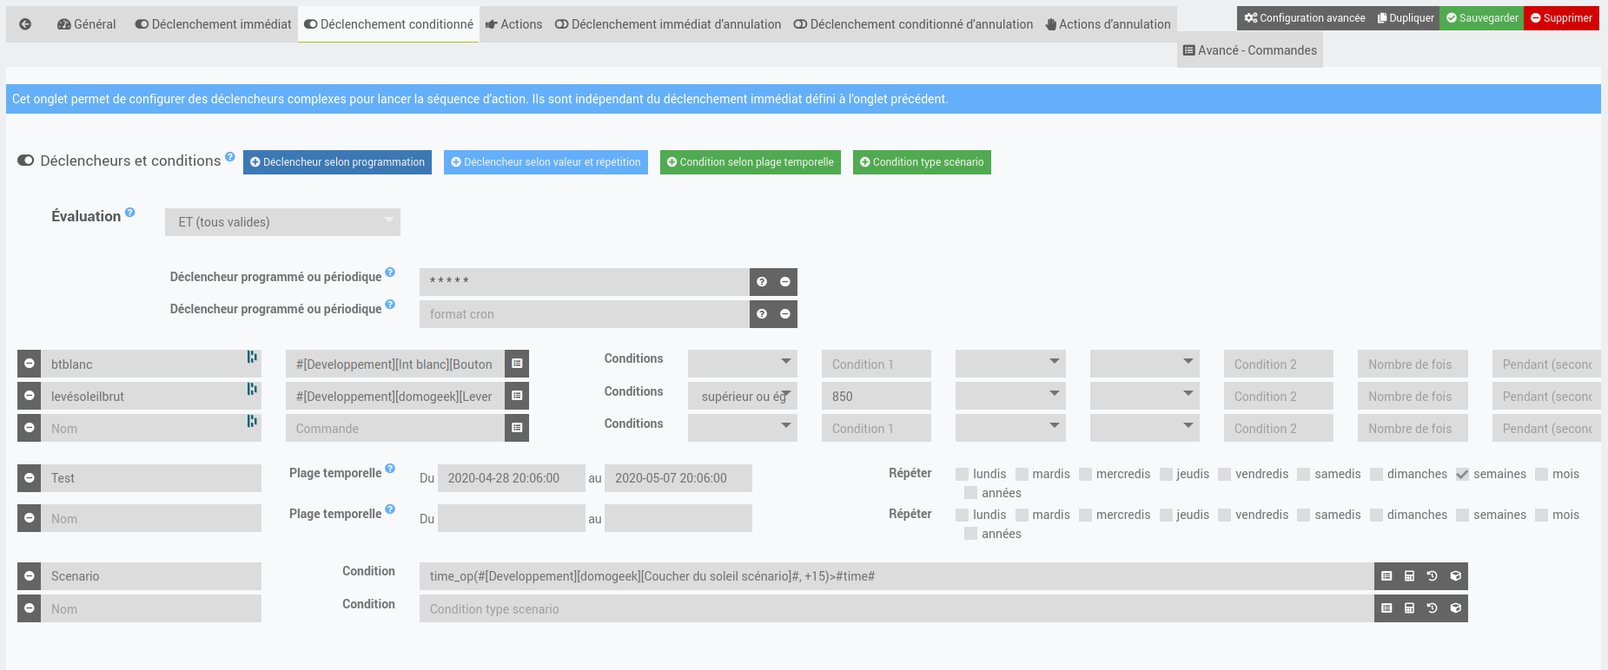
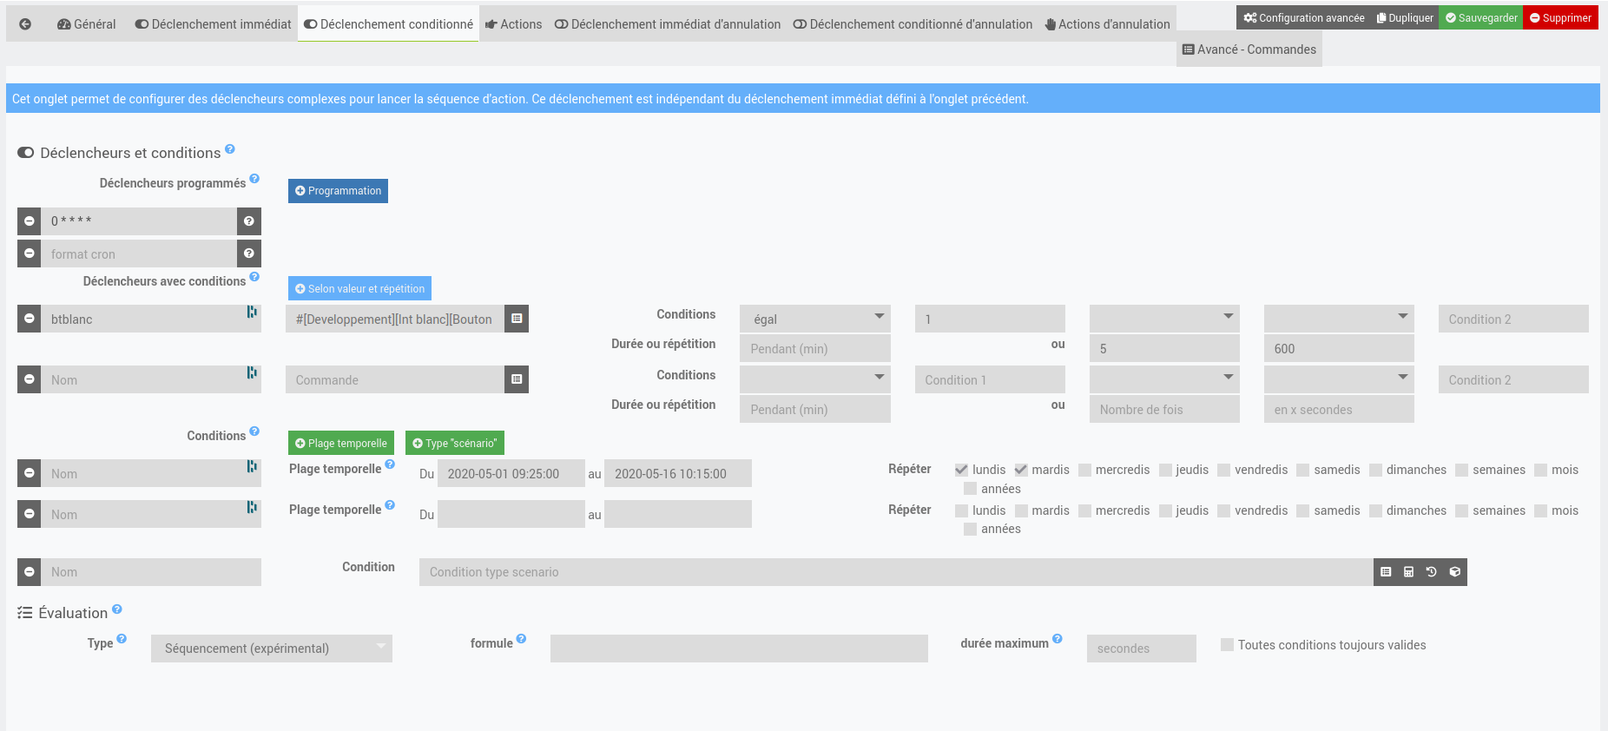
doc

diff --git a/desktop/js/sequencing.js b/desktop/js/sequencing.js
@@ -140,16 +140,6 @@ $('body').off('click','.bt_selectScenarioExpression').on('click','.bt_selectScen
     //  el.value(result.human); // remplace tout
     el.atCaret('insert', result.human); // ajoute
   });
-
-/*  var expression = $(this).closest('.expression');
-  jeedom.scenario.getSelectModal({}, function (result) {
-    if (expression.find('.expressionAttr[data-l1key=type]').value() == 'action') {
-      expression.find('.expressionAttr[data-l1key=expression]').value(result.human);
-    }
-    if (expression.find('.expressionAttr[data-l1key=type]').value() == 'condition') {
-      expression.find('.expressionAttr[data-l1key=expression]').atCaret('insert', result.human);
-    }
-  });*/
 });
 
 // pour selectionner un equipement
@@ -159,16 +149,6 @@ $('body').off('click','.bt_selectEqLogicExpression').on('click','.bt_selectEqLog
   //  el.value(result.human); // remplace tout
     el.atCaret('insert', result.human); // ajoute
   });
-
-/*  var expression = $(this).closest('.expression');
-  jeedom.eqLogic.getSelectModal({}, function (result) {
-    if (expression.find('.expressionAttr[data-l1key=type]').value() == 'action') {
-      expression.find('.expressionAttr[data-l1key=expression]').value(result.human);
-    }
-    if (expression.find('.expressionAttr[data-l1key=type]').value() == 'condition') {
-      expression.find('.expressionAttr[data-l1key=expression]').atCaret('insert', result.human);
-    }
-  });*/
 });
 
 // affiche les cmd jeedom de type action
@@ -180,7 +160,6 @@ $("body").off('click','.listCmdAction').on('click','.listCmdAction', function ()
     jeedom.cmd.displayActionOption(el.value(), '', function (html) {
       el.closest('.' + type).find('.actionOptions').html(html);
     });
-
   });
 });
 
@@ -192,7 +171,6 @@ $('body').off('focusout','.cmdAction.expressionAttr[data-l1key=cmd]').on('focuso
   jeedom.cmd.displayActionOption($(this).value(), init(expression[0].options), function (html) {
     el.closest('.' + type).find('.actionOptions').html(html);
   });
-
 });
 
 // copier/coller du core (cmd.configure.php), permet de choisir la liste des actions (scenario, attendre, ...)

diff --git a/desktop/php/sequencing.php b/desktop/php/sequencing.php
@@ -263,7 +263,7 @@ $eqLogics = eqLogic::byType($plugin->getId());
 
           <div class="sequencement">
             <div class="form-group">
-              <label class="col-sm-1 control-label">{{formule}} <sup><i class="fas fa-question-circle tooltips" title="{{Définir l'ordre des conditions (uniquement pour des conditions sur valeurs). Pour Cond1 puis Cond2 puis Cond3, saisir '§Cond1§<§Cond2§&&§Cond2§<§Cond3§'}}"></i></sup></label>
+              <label class="col-sm-1 control-label">{{formule}} <sup><i class="fas fa-question-circle tooltips" title="{{Définir l'ordre des conditions (uniquement pour des conditions sur valeurs). Pour Cond1 puis Cond2 puis Cond3, saisir '@Cond1@<@Cond2@&&@Cond2@<@Cond3@'}}"></i></sup></label>
               <div class="col-sm-5 col-md-3">
                 <input class="eqLogicAttr form-control" data-l1key="configuration"  data-l2key="condition_sequence"/>
               </div>
@@ -279,7 +279,7 @@ $eqLogics = eqLogic::byType($plugin->getId());
 
           <div class="condition_perso">
             <div class="form-group">
-              <label class="col-sm-1 control-label">{{formule}} <sup><i class="fas fa-question-circle tooltips" title="{{Utilisez des % (resultat) ou % (timestamp) autour de vos noms de conditions et définissez la logique voulue. Voir la documentation}}"></i></sup></label>
+              <label class="col-sm-1 control-label">{{formule}} <sup><i class="fas fa-question-circle tooltips" title="{{Utilisez des % (resultat) ou @ (timestamp) autour de vos noms de conditions et définissez la logique voulue. Voir la documentation}}"></i></sup></label>
               <div class="col-sm-7">
                 <input class="eqLogicAttr form-control" data-l1key="configuration"  data-l2key="condition_perso"/>
               </div>
@@ -445,7 +445,7 @@ $eqLogics = eqLogic::byType($plugin->getId());
 
           <div class="condition_perso_cancel">
             <div class="form-group">
-              <label class="col-sm-1 control-label">{{formule}} <sup><i class="fas fa-question-circle tooltips" title="{{Utilisez des % (resultat) ou % (timestamp) autour de vos noms de conditions et définissez la logique voulue. Voir la documentation}}"></i></sup></label>
+              <label class="col-sm-1 control-label">{{formule}} <sup><i class="fas fa-question-circle tooltips" title="{{Utilisez des % (resultat) ou @ (timestamp) autour de vos noms de conditions et définissez la logique voulue. Voir la documentation}}"></i></sup></label>
               <div class="col-sm-7">
                 <input class="eqLogicAttr form-control" data-l1key="configuration"  data-l2key="condition_perso_cancel"/>
               </div>

diff --git a/core/class/sequencing.class.php b/core/class/sequencing.class.php
@@ -372,7 +372,7 @@ class sequencing extends eqLogic {
 
       log::add('sequencing', 'debug', $this->getHumanName() . ' - Evaluation "perso", condition initiale : ' . $condition);
 
-      preg_match_all('/%([\p{L}\p{M}-_\s]*)%/', $condition, $matches, PREG_SET_ORDER); // on veut matcher a-Z, 0-9, les espaces et les - qui sont inclus entre 2#. Ici on choppe pas les accents...
+      preg_match_all('/%([\p{L}\p{M}-_\s]*)%/', $condition, $matches, PREG_SET_ORDER); // on veut matcher a-Z, 0-9, les espaces et les - qui sont inclus entre 2%. Ici on choppe pas les accents...
       foreach ($matches as $key => $matche) {
     //    log::add('sequencing', 'debug', $this->getHumanName() . ' - matche : ' . $matche[1]); //$matche[1] c'est le nom de notre condition, sans les #. C'est donc aussi le $key de notre tableau ou de notre variable de cache
         $condition = str_replace('%'.$matche[1].'%', $results[$matche[1]], $condition);
@@ -425,7 +425,7 @@ class sequencing extends eqLogic {
       $timestamp_valid = array(); // contiendra en $key le nom sans les # des conditions saisies et en $values 0 ou 1 selon si timestamp <= timeout
       preg_match_all('/@([\p{L}\p{M}-_\s]*)@/', $condition, $matches, PREG_SET_ORDER);
       foreach ($matches as $matche) {
-      //    log::add('sequencing', 'debug', $this->getHumanName() . ' - matche : ' . $matche[1]); //$matche[1] c'est le nom de notre condition, sans les #. C'est donc aussi le $key de notre tableau ou de notre variable de cache
+      //    log::add('sequencing', 'debug', $this->getHumanName() . ' - matche : ' . $matche[1]); //$matche[1] c'est le nom de notre condition, sans les @. C'est donc aussi le $key de notre tableau ou de notre variable de cache
 
         $timestamp_cache = $this->getCache('condValide_'.$matche[1].'_timestamp');
 

diff --git a/docs/fr_FR/index.md b/docs/fr_FR/index.md
@@ -1,15 +1,9 @@
 Présentation
 ============
 
-Ce plugin permet de déclencher des actions séquencées (actions immédiates ou actions retardées) suite à l'activation d'un ou plusieurs déclencheurs, par programmation, ou via appel externe (par un autre plugin, un scénario, un appel API, ...).
+Ce plugin permet de déclencher des actions séquencées (actions immédiates ou actions retardées) suite à l'activation d'un ou plusieurs déclencheurs : par programmation, via appel externe (par un autre plugin, un scénario, un appel API, ...) ou via des conditions élaborées (conditions sur valeur d'un déclencheur, répétition de valeur dans un délai donné, condition valable plus de x min, plage temporelle, logique floue, activations de capteurs dans un ordre donné, etc.)
 
 Un mécanisme d'annulation permet de stopper la séquence et d'exécuter des actions d'annulation spécifiques selon les actions déjà réalisées ou non.
-
-Il est possible d'utiliser des conditions complexes pour déclencher/annuler la séquence :
-* Conditions sur valeur (binaires, numériques ou chaîne de caractères) et/ou selon répétition dans une durée donnée
-* Conditions selon plage temporelle (avec répétition possible chaque jour de la semaine, chaque semaine, mois, année)
-* Conditions du type "scénario" permettant d'utiliser toutes les fonctions de calculs des champs **Si** des scénarios Jeedom (conditions sur les variables, calculs de dates sur des commandes, etc.)
-* Ces différentes conditions peuvent être évaluées en OU, en ET, en logique floue (x conditions sur N), selon l'ordre d’occurrence ou selon une condition personnalisée mixant ces différentes conditions.
 
 Les principales fonctionnalités sont les suivantes :
 * Gestion illimitée d'actions séquentielles (immédiates ou retardées)
@@ -17,10 +11,12 @@ Les principales fonctionnalités sont les suivantes :
    * Programmation du déclenchement (cron) à une date/horaire ou périodiquement
    * Gestion d'appel externe pour déclencher la séquence d'actions (via un autre plugin, scénario, appel API, le Dashboard Jeedom, ...)
 * Déclenchement conditionné :
-   * Ajout d'une quantité illimité de déclencheurs selon programmation (date-heure précise ou périodique) et/ou selon la valeur et répétition d'une commande Jeedom
-   * Ajout d'une quantité illimité de conditions selon plage temporelle et/ou selon la valeur et répétition d'une commande Jeedom et/ou selon des conditions de type "scenario"
-   * Déclencheurs selon la valeur et répétition d'une commande Jeedom (capteur, bouton, info virtuelle, ...) : chacun jusqu'à 2 conditions selon leur valeur (binaire, numérique ou chaîne de caractères) et la possibilité de ne déclencher qu'après plusieurs occurrences successives valides
+   * Quantité illimité de déclencheurs selon programmation (date-heure précise ou périodique)
+   * Quantité illimité de déclencheurs selon commande Jeedom avec conditions sur valeur (binaires, numériques ou chaîne de caractères) et/ou selon répétition dans une durée donnée et/ou selon une durée minimum de validité
+   * Quantité illimité de conditions selon plage temporelle (avec répétition possible chaque jour de la semaine, chaque semaine, mois, année)
+   * Quantité illimité de conditions type "scénario" permettant d'utiliser toutes les fonctions de calculs des champs **Si** des scénarios Jeedom (conditions sur les variables, calculs de dates sur des commandes, etc.)
    * Historisation des déclencheurs (ceux liés à une commande Jeedom uniquement)
+   * Toutes ces différentes conditions peuvent être évaluées en OU, en ET, en logique floue (x conditions sur N), selon l'ordre d’occurrence ou selon une condition totalement personnalisée mixant ces différentes conditions.
 * En cas de multi-déclenchement de la séquence d'action, choix de garder la programmation initiale de chaque action ou de les reporter
 * Gestion d'annulation de la séquence (immédiat ou conditionné, identique gestion du déclenchement) et liste d'actions associées
 * Les actions d'annulation peuvent être conditionnées par l'exécution ou non d'une action de la séquence initiale
@@ -39,6 +35,13 @@ Voir le [Changelog](https://agp42.github.io/sequencing/fr_FR/changelog)
 
 Seules les modifications ayant un impact fonctionnel sur le plugin sont listées dans le changelog.
 
+Exemples détaillés
+==========
+
+Voir la page [Exemples Séquencement](https://agp42.github.io/sequencing/fr_FR/exemples)
+
+(N'hésitez pas à me proposer des exemples de vos utilisations !)
+
 Configuration du plugin
 ========================
 
@@ -54,7 +57,7 @@ Onglet **Général**
    * Objet parent : il s'agit de l'objet Jeedom auquel rattacher l'équipement
    * Catégorie : catégorie Jeedom à laquelle rattacher l'équipement
    * Activer le plugin
-   * Visible sert à visualiser les informations sur le Dashboard, par défaut vous aurez uniquement les commandes pour déclencher et arrêter la séquence. Vous pouvez choisir (onglet **Avancé - Commandes**) de visualiser les capteurs de déclenchement et d'annulation. Le plugin n'a pas besoin d'être visible sur le Dashboard pour fonctionner.
+   * Visible sert à visualiser les informations sur le Dashboard, par défaut vous aurez uniquement les commandes pour déclencher et arrêter la séquence. Vous pouvez renommer ces boutons via l'onglet **Avancé - Commandes**. Vous pouvez choisir (onglet **Avancé - Commandes**) de visualiser les capteurs de déclenchement et d'annulation sur le dashboard. Le plugin n'a pas besoin d'être visible sur le Dashboard pour fonctionner.
 
 ### **Tags messages**
 
@@ -85,20 +88,18 @@ Vous pouvez notamment utiliser des tags dans ces tags, par exemple vous pouvez d
    * #trigger_name# : plusieurs possibilités :
       * le **Nom** du déclencheur (celui que vous avez saisi dans l'onglet Déclencheur ou Déclencheur d'annulation) s'il s'agit d'un déclencheur interne du plugin.
       * "user/api" si déclenché par l'API ou par la commande du Dashboard ou via un autre plugin.
-      * "lancement programmé" ou "annulation programmée" si déclenché par la programmation générale du plugin (celle qui ne vérifie pas les autres conditions).
-      * "programmé" si déclenché par la programmation du plugin (celle qui vérifie les autres conditions).
+      * "programmé" si déclenché par la programmation du plugin (celle qui ne vérifie pas les autres conditions ou celle permettant de déclencher l'évaluation des conditions).
    * #trigger_full_name# : plusieurs possibilités :
       * le **HumanName** Jeedom du déclencheur s'il s'agit d'une commande de déclencheur interne du plugin ([Objet][Equipement][cmd])
       * "user/api" si déclenché par l'API ou par la commande du Dashboard ou via un autre plugin.
-      * "lancement programmé" ou "annulation programmée" si déclenché par la programmation générale du plugin (celle qui ne vérifie pas les autres conditions).
-      * "programmé" si déclenché par la programmation du plugin. Uniquement pour les **Actions**.
+      * "programmé" si déclenché par la programmation du plugin (celle qui ne vérifie pas les autres conditions ou celle permettant de déclencher l'évaluation des conditions).
    * #trigger_value# : la valeur du déclencheur, uniquement pour les déclenchements par un déclencheur interne du plugin. Sera vide dans les autres cas.
    * #trigger_datetime# : La date et l'heure du déclenchement au format "2020-04-16 18:50:18". Il ne s'agit pas de la date et heure de l'action s'il s'agit d'une action retardée.
    * #trigger_time# : idem uniquement l'heure "18:50:18"
 
 ##### Tags généraux (idem scénarios)
 * les informations de date et heure correspondent à l'instant de l'exécution effective de l'action :
-* Rappel des tags scenarios utilisables
+* Rappel des tags scenarios utilisables (tous les tags scenarios qui seront ajoutés dans le core jeedom par la suite seront aussi fonctionnels)
   * #seconde# : Seconde courante (sans les zéros initiaux, ex : 6 pour 08:07:06),
   * #minute# : Minute courante (sans les zéros initiaux, ex : 7 pour 08:07:06),
   * #heure# : Heure courante au format 24h (sans les zéros initiaux, ex : 8 pour 8:07:06 ou 17 pour 17:15),
@@ -144,31 +145,37 @@ Vous pouvez programmer un cron directement via le plugin pour une exécution sim
 Onglet **Déclenchement conditionné**
 ---
 
-Cet onglet permet de configurer des déclencheurs complexes pour lancer la séquence d'action. Ils sont indépendant du déclenchement immédiat défini à l'onglet précédent, ils peuvent donc être utilisés en complément ou à la place du déclenchement immédiat.
+Cet onglet permet de configurer des déclencheurs complexes pour lancer la séquence d'action. Ils sont indépendant du déclenchement immédiat défini à l'onglet précédent.
 
-![](https://raw.githubusercontent.com/AgP42/sequencing/dev/docs/assets/images/OngletDeclencheursConditionnes.png)
+![](https://raw.githubusercontent.com/AgP42/sequencing/dev/docs/assets/images/OngletDeclencheursConditionnesVide.png)
 
 ### Principe de fonctionnement
-Cette partie contient 4 catégories d'éléments :
-* **Déclencheurs selon programmation** : il s'agit d'un ou plusieurs cron(s) (programmation) que vous pouvez choisir d'exécuter à une heure donnée ou périodiquement. Ici cette programmation permettra de déclencher l'évaluation des conditions suivante uniquement. S'il n'y a aucune autre condition, il ne se passera rien (utilisez pour cela la programmation en déclenchement immédiat).
-* **Déclencheurs selon valeur et répétition** : il s'agit ici de déclencheurs **et** de conditions. Chaque changement de valeur ou d'état d'une de ces commandes déclenchera l'évaluation des conditions liées à cette commande. Si ce déclencheur est valide, les autres conditions seront alors évaluées.
-* **Conditions selon plage temporelle** : il s'agit d'une ou plusieurs plage(s) de date-heure, éventuellement répétées, pendant lesquels la séquence d'action peut-être activée. Il s'agit uniquement de **conditions** et non de **déclencheurs** (la séquence ne se déclenchera pas spontanément en début de plage)
-* **Conditions type scénario** : il s'agit d'un champ de condition quasi identique aux conditions (Si/Alors/Sinon) des scénarios du core de Jeedom. Il permet d'écrire des conditions complexes et d'utiliser les différentes fonctions des scénarios Jeedom [Doc scenario v4.0](https://doc.jeedom.com/fr_FR/core/4.0/scenario). Il s'agit uniquement de **conditions** et non de **déclencheurs** (la séquence ne se déclenchera pas spontanément lorsque la condition devient valide)
+Cet onglet contient 2 parties : **Déclencheurs et conditions** et **Évaluation**.
 
-Ainsi que la possibilité de choisir les conditions que vous voulez appliquer entre ces différents éléments :
+**Déclencheurs et conditions** permet de définir une multitude de déclencheurs et de conditions, puis **Évaluation** permettra de déterminer les relations entre ces déclencheurs et conditions.
+
+**Déclencheurs et conditions** contient 4 catégories d'éléments :
+* **Déclencheurs programmés** : il s'agit d'un ou plusieurs cron(s) (programmation) que vous pouvez choisir d'exécuter à une heure donnée ou périodiquement. Ici cette programmation permettra de déclencher l'évaluation des conditions suivante uniquement. S'il n'y a aucune autre condition, il ne se passera rien (utilisez pour cela la programmation en déclenchement immédiat).
+* **Déclencheurs avec conditions** : il s'agit ici de déclencheurs **et** de conditions. Chaque changement de valeur ou d'état d'une de ces commandes déclenchera l'évaluation des conditions liées à cette commande. Si ce déclencheur est valide, les autres conditions seront alors évaluées.
+* **Conditions selon plage temporelle** : il s'agit d'une ou plusieurs plage(s) de date-heure, éventuellement répétées, pendant lesquels la séquence d'action peut-être activée. Il s'agit uniquement de **conditions** et non de **déclencheurs** (la séquence ne se déclenchera pas spontanément en début de plage)
+* **Conditions type scénario** : il s'agit d'un champ de condition quasi identique aux conditions **Si** des scénarios du core de Jeedom. Il permet d'écrire des conditions complexes et d'utiliser les différentes fonctions des scénarios Jeedom [Doc scenario v4.0](https://doc.jeedom.com/fr_FR/core/4.0/scenario). Il s'agit uniquement de **conditions** et non de **déclencheurs** (la séquence ne se déclenchera pas spontanément lorsque la condition devient valide)
+
+**Évaluation** permet de choisir les conditions que vous voulez appliquer entre ces différents éléments :
 * **ET** : toutes les conditions (valeur, plage temporelle et conditions "scenarios") doivent être valides pour déclencher la séquence d'action
 * **OU** : une seule condition suffit
 * **x conditions valides** : seules x parmi vos N conditions doivent être valides pour déclencher la séquence
-* **Séquencement** : vous pouvez ici choisir l'ordre d'arrivée des conditions pendant une durée donnée et choisir si toutes les conditions doivent toujours être valides ou non. Attention cette fonctionnalité est encore expérimentale, merci de me faire part des problèmes éventuels pour que je puisse l'améliorer ;-)
-* **Condition personnalisée** : vous pouvez ici choisir condition par condition l'évaluation à faire. Attention cette fonctionnalité est encore expérimentale, merci de me faire part des problèmes éventuels pour que je puisse l'améliorer ;-)
+* **Séquencement** : vous pouvez ici choisir l'ordre d'arrivée des conditions pendant une durée donnée et choisir si toutes les conditions doivent toujours être valides ou non.
+* **Condition personnalisée** : vous pouvez ici choisir condition par condition l'évaluation à faire.
 
 ### Configuration
 
 Cliquez sur le bouton correspondant à l'élément que vous souhaitez ajouter.
 
+![](https://raw.githubusercontent.com/AgP42/sequencing/dev/docs/assets/images/OngletDeclencheursConditionnes.png)
+
 Pour chaque nouvelle ligne, cliquez sur le bouton **-** pour la supprimer.
 
-* **Déclencheur selon programmation** :
+* **Déclencheurs programmés** :
 
 ![](https://raw.githubusercontent.com/AgP42/sequencing/dev/docs/assets/images/TriggerCron.png)
 
@@ -181,11 +188,20 @@ Pour chaque nouvelle ligne, cliquez sur le bouton **-** pour la supprimer.
 
 ![](https://raw.githubusercontent.com/AgP42/sequencing/dev/docs/assets/images/TriggersValeur.png)
 
-  * **Nom** : chaque déclencheur doit avoir un nom unique. Champ obligatoire. Le changement de nom d'un déclencheur revient à le supprimer et à en créer un nouveau. L'historique associé sera donc perdu. Chaque déclencheur de cette catégorie est automatiquement historisée, vous pouvez changer ceci via l'onglet **Avancé - commandes**
+  * **Nom** : chaque déclencheur doit avoir un nom unique. Champ obligatoire. Le changement de nom d'un déclencheur revient à le supprimer et à en créer un nouveau. L'historique associé sera donc perdu. Chaque déclencheur de cette catégorie est automatiquement historisé, vous pouvez changer ceci via l'onglet **Avancé - commandes**
   * **Commande** : la commande Jeedom du déclencheur. Champ obligatoire. Il ne peut s'agir que d'une commande (pas d'une variable ou autre).
   * **Conditions** :
     * 1 ou 2 condition(s) possible(s) sur la valeur du capteur. Il peut s'agit d'une valeur binaire, numérique ou d'un texte. Pour un texte, vous pouvez ajouter des "guillemets doubles" ou aucun guillemet, mais il ne faut pas utiliser de 'guillemets simples'.
-    * **Nombre de fois** et **Pendant** : permet d'ajouter comme condition une répétition de la valeur (seules les conditions valides sont comptées) sur une période donnée. Par exemple si vous souhaitez ne déclencher la fermeture d'un store qu'après 3 rafales de vents > 50km/h en 10min : condition 1 "strictement supérieur" "50". Pas de condition 2. Répétition : "3" en "600" secondes. Vous pouvez utiliser les champs de répétitions sans définir de conditions, dans ce cas toutes les valeurs de la commande seront considérées dans la répétition. Cette condition sera valide pour toutes les occurrences à partir de la limite choisie. Dans l'exemple précédent, les 3ème, 4ème ou 5ème occurrences >50km/h dans les 10min seront considérées comme des déclencheurs valides, et ce même s'il y a aussi eu des occurences non valide pendant la période.
+    * **Durée** :
+      * permet de ne considérer cette condition valide que si les conditions de valeurs restent valablent une certaine durée (en minutes).
+      * Attention, l'évaluation de la durée est réalisée par les crons Jeedom qui peuvent avoir jusqu'à 1 min de moins que voulu (voir **Comportement des évaluations sur la durée** ci-dessous)
+      * Par exemple si vous souhaitez une alerte lorsque la température est inférieur à 18° ou supérieur à 25° pendant plus d'1h : condition 1 : <18 "ET" condition 2 : >25, pendant "60". La condition peut varier pendant la période considerée tant qu'elle ne sort pas des bornes définies.
+    * **Nombre de fois** et **en x secondes** :
+      * permet d'ajouter comme condition une répétition de la valeur (seules les conditions valides sont comptées) sur une période donnée.
+      * Par exemple si vous souhaitez ne déclencher la fermeture d'un store qu'après 3 rafales de vents > 50km/h en 10min : condition 1 "strictement supérieur" "50". Pas de condition 2. Répétition : "3" en "600" secondes.
+      * Vous pouvez utiliser les champs de répétitions sans définir de conditions, dans ce cas toutes les valeurs de la commande seront considérées dans la répétition.
+      * La condition sera valide pour toutes les occurrences à partir de la limite choisie. Dans l'exemple précédent, les 3ème, 4ème ou 5ème occurrences >50km/h dans les 10min seront considérées comme des déclencheurs valides, et ce même s'il y a aussi eu des occurences non valide pendant la période.
+      * la durée doit être donné en secondes
 
 > si votre capteur est susceptible de répéter régulièrement sa valeur, vous pouvez choisir d'ignorer les répétitions (strictement identiques) via l'onglet **Avancé - commandes**. Pour la commande voulue (le nom dans cet onglet correspond au nom que vous avez donné dans l'onglet **Déclenchement conditionné**), cliquez sur le bouton de configuration (engrenage) puis "Configuration" et "Gestion de la répétition des valeurs" puis choisir "Jamais répéter".
 
@@ -368,68 +384,10 @@ Le comportement du core Jeedom concernant ces crons périodiques est le suivant 
 
 Ceci est un bug Jeedom que je n'ai pas encore réussi à contourner, toute personne ayant un indice : merci de m'en faire part ;-)
 
-Exemples d'utilisation
-===
-
-Cloche 2.0
+Comportement des évaluations sur la durée
 ---
 
-Quand j'étais enfant ma grand-mère nous appelait pour les repas en sonnant la cloche. Aujourd'hui elle aurait un bouton dans sa cuisine avec déclenchement de la séquence suivante :
-* Immédiatement : mémoriser les états des lampes et faire clignoter toutes les lampes de la maison (label : lampes)
-* Immédiatement : envoyer une notification sur les smartphones des grands
-* Délai 1 min : couper le clignotement des lampes et retour état précédent
-* Délai 5 min : couper le courant de la télévision, des consoles de jeux et des radios (label : tv)
-
-Annulation (un autre bouton ou 2 appuis sur le même bouton) :
-* Si "lampe" : couper le clignotement des lampes et retour état précédent
-* Si "tv" : rallumer le courant de la télévision, des consoles de jeux et des radios
-
-Réveil
----
-
-Séquence programmée tous les matins, les jours de semaines, hors jours fériés à 6h :
-* Immédiatement : changer le thermostat pour baisser le chauffage dans les chambres et l'augmenter dans les pièces de vie (label : thermostat)
-* Délai 60 min : allumer progressivement la lumière (label : lumière)
-* Délai 60 min : ouvrir les volets (label : volets)
-* Délai 65 min : activer la machine à café (label : café)
-
-Annulation :
-* Si "thermostat" : remettre le thermostat en "nuit"
-* Si "lumière" : couper la lumière
-* Si "volets" : fermer les volets
-* Si "café" : couper la machine à café
-
-Et pour les matins difficiles : un bouton sur la table de nuit pour annuler la séquence !
-
-Départ/retour maison
----
-
-Séquence déclenchée par le plugin "Mode" ou "Présence" :
-* Immédiatement : fermer les volets
-* Immédiatement : couper les lumières
-* Immédiatement : baisser le chauffage
-* Délai 5 min : activer l'alarme
-
-Annulation, déclenchée par le plugin "Mode" ou "Présence" :
-* Ouvrir les volets
-* Relancer le chauffage
-* Désactiver l'alarme
-
-Gestion arrosage automatique (déclencheurs complexes)
----
-
-Si vous avez 5 capteurs d'humidité dans votre jardin et le plugin Weather
-* Déclenchement conditionné :
-  * Définir vos 5 capteurs avec pour chacun, un seuil minimum et éventuellement la condition de 3 répétitions dans l'heure pour être valide (**Déclencheur selon valeur et répétition**)
-  * Choisir comme évaluation "x conditions valides suffisent" et choisir par exemple 3 capteurs sur les 5
-* Actions : lancer l'arrosage automatique avec un délai de 2 minutes (pour laisser au plugin le temps d'évaluer les conditions d'annulation éventuelles)
-* Déclenchement d'annulation conditionné (évaluation en OU) :
-  * Si la météo prévoit de la pluie dans l'heure (**Déclencheur selon valeur et répétition** avec les infos du plugin Weather)
-  * Si le soleil va se coucher dans moins de 15 min (**Condition type scénario** avec time_op())
-  * Si la plage horaire est entre 21h et 6h du matin (répété tous les jours) (**Condition selon plage temporelle**)
-  * Si l'arrosage a déjà été déclenché plus de 4h aujourd'hui (**Condition type scénario** avec duration() ou durationBetween())
-  * Et ajouter un programmateur de type cron toutes les minutes pour évaluer ces conditions (les "Condition type scénario" et "Condition selon plage temporelle" pas des déclencheurs mais juste des conditions) (**Déclencheur selon programmation**)
-* Actions d'annulation : couper l'arrosage
+Lorsque vous definissez une évaluation sur une durée, le plugin peut mettre jusqu'à 1 min de moins que choisie car l'évaluation se fera toujours en début de minute. Par exemple si votre déclencheurs se déclenche à 11h50min58s et que vous demandez 3 minutes de validité, la validité sera déclarée à 11h53min02s.
 
 Support
 ===

diff --git a/docs/fr_FR/exemples.md b/docs/fr_FR/exemples.md
@@ -1,0 +1,62 @@
+Exemples d'utilisation
+===
+
+Cloche 2.0
+---
+
+Quand j'étais enfant ma grand-mère nous appelait pour les repas en sonnant la cloche. Aujourd'hui elle aurait un bouton dans sa cuisine avec déclenchement de la séquence suivante :
+* Immédiatement : mémoriser les états des lampes et faire clignoter toutes les lampes de la maison (label : lampes)
+* Immédiatement : envoyer une notification sur les smartphones des grands
+* Délai 1 min : couper le clignotement des lampes et retour état précédent
+* Délai 5 min : couper le courant de la télévision, des consoles de jeux et des radios (label : tv)
+
+Annulation (un autre bouton ou 2 appuis sur le même bouton) :
+* Si "lampe" : couper le clignotement des lampes et retour état précédent
+* Si "tv" : rallumer le courant de la télévision, des consoles de jeux et des radios
+
+Réveil
+---
+
+Séquence programmée tous les matins, les jours de semaines, hors jours fériés à 6h :
+* Immédiatement : changer le thermostat pour baisser le chauffage dans les chambres et l'augmenter dans les pièces de vie (label : thermostat)
+* Délai 60 min : allumer progressivement la lumière (label : lumière)
+* Délai 60 min : ouvrir les volets (label : volets)
+* Délai 65 min : activer la machine à café (label : café)
+
+Annulation :
+* Si "thermostat" : remettre le thermostat en "nuit"
+* Si "lumière" : couper la lumière
+* Si "volets" : fermer les volets
+* Si "café" : couper la machine à café
+
+Et pour les matins difficiles : un bouton sur la table de nuit pour annuler la séquence !
+
+Départ/retour maison
+---
+
+Séquence déclenchée par le plugin "Mode" ou "Présence" :
+* Immédiatement : fermer les volets
+* Immédiatement : couper les lumières
+* Immédiatement : baisser le chauffage
+* Délai 5 min : activer l'alarme
+
+Annulation, déclenchée par le plugin "Mode" ou "Présence" :
+* Ouvrir les volets
+* Relancer le chauffage
+* Désactiver l'alarme
+
+Gestion arrosage automatique (déclencheurs complexes)
+---
+
+Si vous avez 5 capteurs d'humidité dans votre jardin et le plugin Weather
+* Déclenchement conditionné :
+  * Définir vos 5 capteurs avec pour chacun, un seuil minimum et éventuellement la condition de 3 répétitions dans l'heure pour être valide (**Déclencheur selon valeur et répétition**)
+  * Choisir comme évaluation "x conditions valides suffisent" et choisir par exemple 3 capteurs sur les 5
+* Actions : lancer l'arrosage automatique avec un délai de 2 minutes (pour laisser au plugin le temps d'évaluer les conditions d'annulation éventuelles)
+* Déclenchement d'annulation conditionné (évaluation en OU) :
+  * Si la météo prévoit de la pluie dans l'heure (**Déclencheur selon valeur et répétition** avec les infos du plugin Weather)
+  * Si le soleil va se coucher dans moins de 15 min (**Condition type scénario** avec time_op())
+  * Si la plage horaire est entre 21h et 6h du matin (répété tous les jours) (**Condition selon plage temporelle**)
+  * Si l'arrosage a déjà été déclenché plus de 4h aujourd'hui (**Condition type scénario** avec duration() ou durationBetween())
+  * Et ajouter un programmateur de type cron toutes les minutes pour évaluer ces conditions (les "Condition type scénario" et "Condition selon plage temporelle" pas des déclencheurs mais juste des conditions) (**Déclencheur selon programmation**)
+* Actions d'annulation : couper l'arrosage
